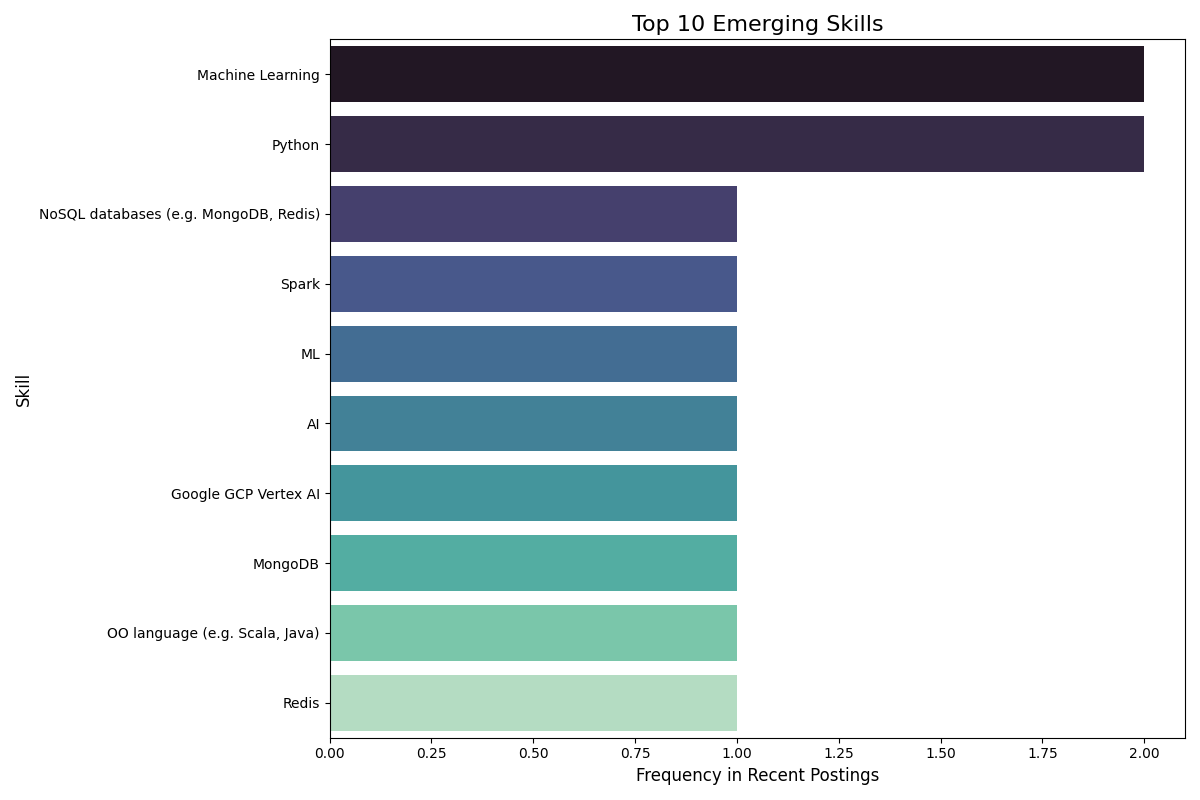
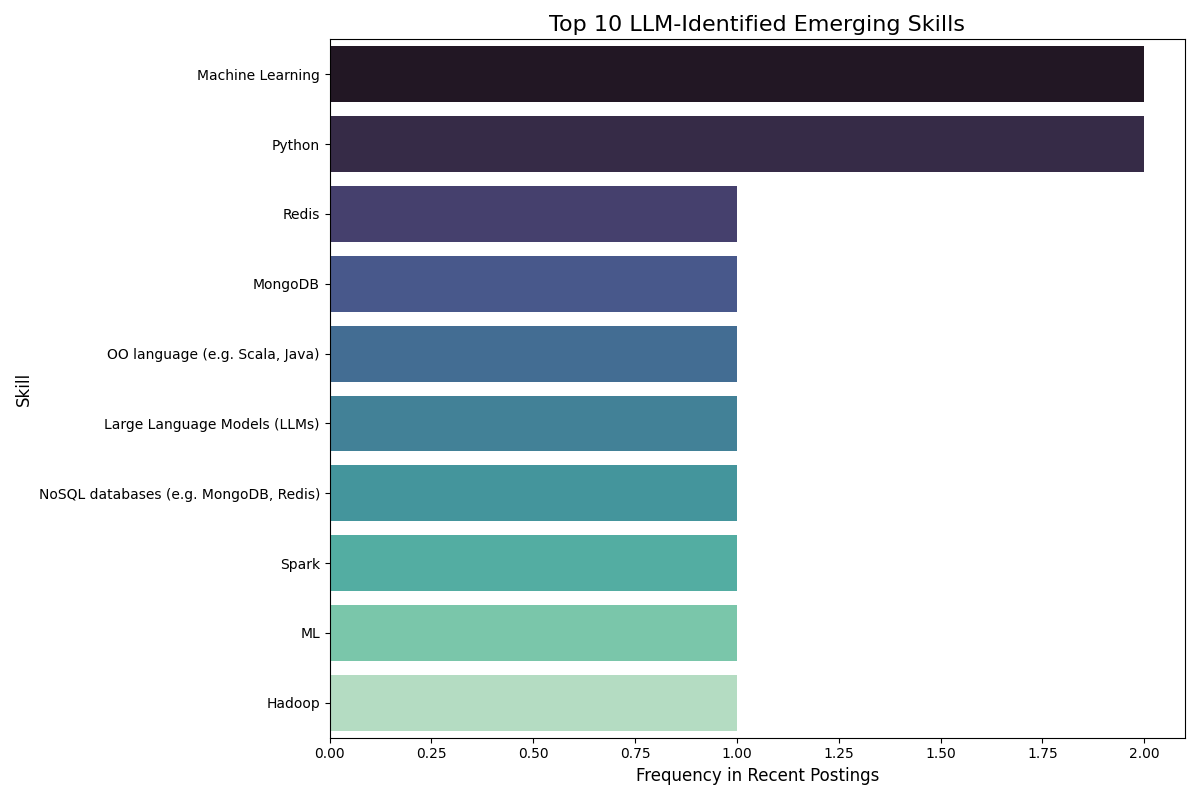
ngmi x2

diff --git a/analysis/main.py b/analysis/main.py
@@ -90,45 +90,83 @@ def analyze_top_skills(df, top_n=10):
     
     return top_skills_df
 
-# --- 3. Trend Analysis ---
+# --- 3. Trend Analysis with LLM Intelligence ---
 
-def analyze_emerging_skills(df, recent_threshold_days=2, top_n=10):
-    """Analyzes emerging skills and creates a visualization."""
-    print(f"\n--- Step 3: Analyzing Emerging Skills (Recent <= {recent_threshold_days} days) ---")
+def analyze_emerging_skills_with_llm(df, top_skills_list, recent_threshold_days=2, top_n=10):
+    """
+    Uses an LLM to identify emerging skills from recent job descriptions,
+    comparing against a baseline of top skills.
+    """
+    print(f"\n--- Step 3: Analyzing Emerging Skills with LLM Intelligence (Recent <= {recent_threshold_days} days) ---")
     
     recent_df = df[df['days_ago'] <= recent_threshold_days]
-    older_df = df[df['days_ago'] > recent_threshold_days]
-
-    if recent_df.empty or older_df.empty:
-        print("Not enough data to compare recent and older postings for trend analysis.")
+    if recent_df.empty:
+        print("No recent job postings found to analyze for emerging skills.")
         return pd.DataFrame()
 
-    recent_skills_counts = Counter([skill for sublist in recent_df['skills'] for skill in sublist])
-    older_skills_counts = Counter([skill for sublist in older_df['skills'] for skill in sublist])
+    # Combine recent job descriptions into a single text block for the LLM
+    recent_descriptions = "\n\n---\n\n".join(recent_df['job_description'].astype(str))
+    
+    model = genai.GenerativeModel('gemini-2.5-flash')
+    
+    prompt = f"""
+    You are a senior technology and recruitment analyst. Your task is to identify truly "emerging" skills from the latest job postings.
 
-    emerging_skills_scores = {}
-    for skill, recent_count in recent_skills_counts.items():
-        older_count = older_skills_counts.get(skill, 0)
-        if recent_count > older_count:
-            # Simple score: new skills or those with increased frequency are candidates
-            emerging_skills_scores[skill] = recent_count
+    I have two sets of data for you:
+    1.  **Baseline Top Skills**: This is a list of the most frequently mentioned skills across all job postings. These are the established, in-demand skills right now.
+        ```
+        {', '.join(top_skills_list)}
+        ```
 
-    if not emerging_skills_scores:
-        print("No clear emerging skills found based on the current data and threshold.")
+    2.  **Recent Job Descriptions**: This is the raw text from job descriptions posted in the last {recent_threshold_days} days.
+        ```
+        {recent_descriptions[:4000]} 
+        ```
+
+    **Your Analysis Task:**
+    Read through the recent job descriptions. Compare them against the baseline top skills. Identify a list of up to {top_n} skills or technologies that represent a new or growing trend. These should be skills that are not yet on the top skills list, or that seem to be gaining significant momentum and represent the "next wave" of technology.
+
+    Provide your answer ONLY as a JSON-formatted list of strings. For example: ["Quantum Computing", "Edge AI", "Rust Lang"].
+    """
+
+    print("Sending prompt to Gemini to identify emerging skills...")
+    try:
+        response = model.generate_content(prompt)
+        # Clean up the response to extract the JSON part
+        json_str = re.search(r'```json\n(.*)\n```', response.text, re.DOTALL)
+        if not json_str:
+            json_str = re.search(r'\[.*\]', response.text, re.DOTALL)
+        
+        if not json_str:
+             raise ValueError("LLM did not return a valid JSON list.")
+
+        emerging_skills_from_llm = json.loads(json_str.group(0))
+        print("LLM identified emerging skills:", emerging_skills_from_llm)
+
+    except (Exception, json.JSONDecodeError) as e:
+        print(f"An error occurred during LLM analysis or parsing: {e}")
+        print("Falling back to simple frequency analysis for emerging skills.")
+        # Fallback to a simple analysis if LLM fails
+        all_recent_skills = Counter([skill for sublist in recent_df['skills'] for skill in sublist])
+        emerging_skills_from_llm = [skill for skill, count in all_recent_skills.most_common(top_n)]
+
+
+    # Now, let's quantify and visualize these LLM-identified skills
+    all_recent_skills = Counter([skill for sublist in recent_df['skills'] for skill in sublist])
+    
+    # Filter and count only the skills the LLM identified
+    emerging_skill_counts = {skill: all_recent_skills[skill] for skill in emerging_skills_from_llm if skill in all_recent_skills}
+    
+    if not emerging_skill_counts:
+        print("None of the LLM-identified skills were found in the recent job data for plotting.")
         return pd.DataFrame()
 
-    # Get the top N emerging skills based on their frequency in recent jobs
-    top_emerging = Counter(emerging_skills_scores).most_common(top_n)
-    emerging_skills_df = pd.DataFrame(top_emerging, columns=['Skill', 'Recent Frequency'])
-
-    print(f"Top {top_n} potential emerging skills (more frequent in recent postings):")
-    for skill, count in top_emerging:
-        print(f"- {skill}: {count} mentions in recent jobs")
+    emerging_skills_df = pd.DataFrame(list(emerging_skill_counts.items()), columns=['Skill', 'Recent Frequency']).sort_values(by='Recent Frequency', ascending=False)
         
     # Visualization for emerging skills
     plt.figure(figsize=(12, 8))
     sns.barplot(x='Recent Frequency', y='Skill', data=emerging_skills_df, palette='mako')
-    plt.title(f'Top {top_n} Emerging Skills', fontsize=16)
+    plt.title(f'Top {len(emerging_skills_df)} LLM-Identified Emerging Skills', fontsize=16)
     plt.xlabel('Frequency in Recent Postings', fontsize=12)
     plt.ylabel('Skill', fontsize=12)
     plt.tight_layout()
@@ -154,12 +192,26 @@ def generate_and_save_report(top_skills_df, emerging_skills_df):
     top_skills_list = top_skills_df.to_string(index=False)
     emerging_skills_list = emerging_skills_df.to_string(index=False) if not emerging_skills_df.empty else "None identified"
 
-    prompt = f"""
-    You are a People Analytics expert preparing a report for your company's leadership.
-    Your analysis is based on two key visualizations derived from recent job market data:
+    company_profile = """
+    **Main Focus:** A semiconductor company making special computer chips for AI systems, data centers, and networks, focusing on technology that processes and moves data very fast.
+    **Target Markets:** Data centers (AI/cloud), Automotive (smart cars), Enterprise Networking, and Carrier Infrastructure (5G networks).
+    **Company Goal:** To accelerate AI and data infrastructure, enabling customers to build optimized, custom silicon solutions.
+    **Key Strengths:** Expertise in custom silicon, reliable execution, and deep customer partnerships. A focus on power-efficient, high-performance systems.
+    **Special Products:** Silicon solutions for AI computing, networking, and storage, including specialized chips for the automotive market.
+    **Work Style:** Emphasizes close, shoulder-to-shoulder collaboration with customers.
+    """
 
-    1.  **Top In-Demand Skills Chart (`top_skills.png`)**: This bar chart shows the most frequently mentioned skills across all job postings, indicating the core competencies required in the industry today.
-    2.  **Emerging Skills Chart (`emerging_skills.png`)**: This bar chart highlights skills that are more frequent in the most recent job postings compared to older ones. These are potential future-looking skills the company should pay attention to.
+    prompt = f"""
+    You are a People Analytics expert preparing a strategic report for the leadership of a leading semiconductor company.
+
+    ---
+    **COMPANY PROFILE:**
+    {company_profile}
+    ---
+
+    Your analysis is based on two key visualizations derived from recent job market data:
+    1.  **Top In-Demand Skills Chart (`top_skills.png`)**: This shows the most frequently mentioned skills, indicating core competencies in the industry.
+    2.  **Emerging Skills Chart (`emerging_skills.png`)**: This highlights skills trending in the most recent job postings, pointing to future needs.
 
     Here is the data that populates those charts:
 
@@ -175,10 +227,10 @@ def generate_and_save_report(top_skills_df, emerging_skills_df):
 
     **Your Task:**
     Write a comprehensive analysis in markdown format. Your report must:
-    1.  Start with a brief, high-level **Executive Summary**.
-    2.  Provide **Key Insights from the 'Top In-Demand Skills' chart**. Explain what these skills represent and why they are foundational.
-    3.  Provide **Key Insights from the 'Emerging Skills' chart**. Explain what these trends signify for the future and why they are important.
-    4.  Conclude with a set of **Actionable Recommendations** for hiring, upskilling, and overall workforce strategy based on a synthesis of both charts.
+    1.  Start with a brief **Executive Summary**.
+    2.  Provide **Key Insights from the 'Top In-Demand Skills' chart**.
+    3.  Provide **Key Insights from the 'Emerging Skills' chart**.
+    4.  Conclude with a set of **Actionable Recommendations**. These recommendations must be **specifically tailored to the company profile provided**. They should advise on how to leverage the skill trends to strengthen their position in their target markets (Data Center, Automotive, Enterprise, Carrier) and achieve their strategic goals.
 
     Please generate only the text for the report. The final markdown file will embed the images.
     """
@@ -231,8 +283,8 @@ def main():
     # Step 2: Frequency Analysis
     top_skills_df = analyze_top_skills(df)
     
-    # Step 3: Trend Analysis
-    emerging_skills_df = analyze_emerging_skills(df, recent_threshold_days=2)
+    # Step 3: Trend Analysis with LLM
+    emerging_skills_df = analyze_emerging_skills_with_llm(df, top_skills_df['Skill'].tolist(), recent_threshold_days=2)
 
     # Step 4: LLM-Powered Synthesis and Report Generation
     if not top_skills_df.empty:

diff --git a/analysis/insights_report.md b/analysis/insights_report.md
@@ -2,7 +2,7 @@
 # Job Market Skills Analysis
 
 ## Executive Summary
-This report provides a strategic overview of the current and emerging skill landscape based on recent job market data, visualized in the "Top In-Demand Skills" and "Emerging Skills" charts. Our analysis reveals a strong and accelerating demand for skills in Artificial Intelligence (AI), Machine Learning (ML), and related data technologies. Notably, the skills currently most sought after are also the ones showing the highest growth, indicating a reinforcing trend that necessitates immediate and sustained focus. To maintain competitive advantage, our company must strategically invest in acquiring and developing expertise in these critical areas.
+This report provides a strategic overview of current and emerging skill demands within the semiconductor industry, derived from recent job market data. Our analysis reveals a strong and consistent demand for skills directly aligned with our company's core mission: accelerating AI and data infrastructure through custom silicon solutions. Specifically, Machine Learning, Python, and capabilities related to large-scale data processing (e.g., LLMs, Spark, Hadoop, NoSQL databases) are paramount. The identical nature of the "Top In-Demand" and "Emerging" skill sets indicates that these competencies are not just critical today, but will remain foundational for future growth and competitive advantage. To capitalize on these trends, we must double down on talent acquisition, aggressive upskilling, strategic partnerships, and a compelling employer brand that highlights our unique position at the intersection of high-performance custom silicon and AI innovation across our target markets.
 
 ##
 
@@ -10,18 +10,16 @@ This report provides a strategic overview of the current and emerging skill land
 ![Top In-Demand Skills](top_skills.png)
 
 ### Key Insights from the 'Top In-Demand Skills' Chart
-Key Insightsfrom the 'Top In-Demand Skills' Chart (`top_skills.png`)
+Key Insightsfrom 'Top In-Demand Skills' Chart
 
-The "Top In-Demand Skills" chart highlights the core competencies that are currently foundational across the industry. The data clearly shows a dominant trend towards **AI and Machine Learning capabilities**:
+The `top_skills.png` visualization, based on the most frequently mentioned skills, provides clear indicators of the core competencies currently valued in the market:
 
-*   **Machine Learning (Frequency: 2) and AI (Frequency: 1), ML (Frequency: 1):** These closely related skills collectively represent the highest demand, underscoring their importance as the bedrock of modern data-driven applications and intelligent systems. They signify a need for expertise in developing, deploying, and managing algorithms that enable systems to learn from data.
-*   **Python (Frequency: 2):** As the most frequently mentioned programming language alongside Machine Learning, Python's versatility and extensive libraries make it the preferred language for data science, AI development, and automation. Its high demand confirms its role as an essential tool for almost any data-related initiative.
-*   **NoSQL databases (e.g. MongoDB, Redis) (Frequency: 1), MongoDB (Frequency: 1), Redis (Frequency: 1):** The repeated mention of NoSQL databases and specific technologies like MongoDB and Redis indicates a strong need for professionals skilled in managing flexible, scalable, and high-performance data storage solutions, crucial for handling large volumes of unstructured and semi-structured data common in AI/ML workflows.
-*   **Spark (Frequency: 1):** The inclusion of Spark points to the demand for expertise in big data processing frameworks, essential for handling and analyzing large datasets efficiently, which is often a prerequisite for advanced ML applications.
-*   **Google GCP Vertex AI (Frequency: 1):** This specific mention of a cloud-based AI platform highlights the growing trend towards leveraging managed services on cloud platforms for AI development and deployment. It signifies a need for cloud expertise alongside AI knowledge.
-*   **OO language (e.g. Scala, Java) (Frequency: 1):** While not as specific as Python in this context, the demand for Object-Oriented languages emphasizes the need for strong foundational programming skills that support robust software development, often integrated with data and AI systems.
+*   **Dominance of AI/ML and Python:** "Machine Learning" (including "ML") and "Python" stand out as the most frequently requested skills. This directly validates our strategic focus on AI systems and data processing. Python's versatility makes it a critical language for developing, deploying, and optimizing AI/ML models, especially for data-intensive applications.
+*   **Relevance of Large Language Models (LLMs):** The explicit mention of "Large Language Models (LLMs)" underscores the industry's pivot towards advanced AI paradigms. For a company focused on custom silicon for AI, expertise in LLMs is crucial for developing highly optimized hardware that can efficiently process and accelerate these complex models.
+*   **Emphasis on Data Infrastructure:** Skills related to big data processing and storage, such as "Spark," "Hadoop," "Redis," "MongoDB," and "NoSQL databases," highlight the pervasive need for professionals who can manage, process, and extract insights from vast datasets. This is directly relevant to our work in data centers and networks, where high-speed data movement and efficient storage are paramount.
+*   **Foundational Programming Skills:** The inclusion of "OO language (e.g., Scala, Java)" alongside Python indicates a continued need for strong object-oriented programming fundamentals, essential for building robust and scalable software systems that interface with our custom silicon.
 
-These skills are foundational because they empower companies to build intelligent products, automate processes, derive actionable insights from data, and adapt to rapidly changing technological landscapes.
+These top in-demand skills strongly align with our company's profile, reinforcing that our current technological trajectory is well-positioned within the broader industry landscape.
 
 ##
 
@@ -29,58 +27,55 @@ These skills are foundational because they empower companies to build intelligen
 ![Emerging Skills](emerging_skills.png)
 
 ### Key Insights from the 'Emerging Skills' Chart
-# People Analytics Report: Navigating Current & Future Skill Demands
+# Strategic Talent Report: Accelerating AI and Data Infrastructure
 
 ## Executive Summary
 
-This report provides a strategic overview of the current and emerging skill landscape based on recent job market data, visualized in the "Top In-Demand Skills" and "Emerging Skills" charts. Our analysis reveals a strong and accelerating demand for skills in Artificial Intelligence (AI), Machine Learning (ML), and related data technologies. Notably, the skills currently most sought after are also the ones showing the highest growth, indicating a reinforcing trend that necessitates immediate and sustained focus. To maintain competitive advantage, our company must strategically invest in acquiring and developing expertise in these critical areas.
+This report provides a strategic overview of current and emerging skill demands within the semiconductor industry, derived from recent job market data. Our analysis reveals a strong and consistent demand for skills directly aligned with our company's core mission: accelerating AI and data infrastructure through custom silicon solutions. Specifically, Machine Learning, Python, and capabilities related to large-scale data processing (e.g., LLMs, Spark, Hadoop, NoSQL databases) are paramount. The identical nature of the "Top In-Demand" and "Emerging" skill sets indicates that these competencies are not just critical today, but will remain foundational for future growth and competitive advantage. To capitalize on these trends, we must double down on talent acquisition, aggressive upskilling, strategic partnerships, and a compelling employer brand that highlights our unique position at the intersection of high-performance custom silicon and AI innovation across our target markets.
 
-## Key Insights from the 'Top In-Demand Skills' Chart (`top_skills.png`)
+## Key Insights from 'Top In-Demand Skills' Chart
 
-The "Top In-Demand Skills" chart highlights the core competencies that are currently foundational across the industry. The data clearly shows a dominant trend towards **AI and Machine Learning capabilities**:
+The `top_skills.png` visualization, based on the most frequently mentioned skills, provides clear indicators of the core competencies currently valued in the market:
 
-*   **Machine Learning (Frequency: 2) and AI (Frequency: 1), ML (Frequency: 1):** These closely related skills collectively represent the highest demand, underscoring their importance as the bedrock of modern data-driven applications and intelligent systems. They signify a need for expertise in developing, deploying, and managing algorithms that enable systems to learn from data.
-*   **Python (Frequency: 2):** As the most frequently mentioned programming language alongside Machine Learning, Python's versatility and extensive libraries make it the preferred language for data science, AI development, and automation. Its high demand confirms its role as an essential tool for almost any data-related initiative.
-*   **NoSQL databases (e.g. MongoDB, Redis) (Frequency: 1), MongoDB (Frequency: 1), Redis (Frequency: 1):** The repeated mention of NoSQL databases and specific technologies like MongoDB and Redis indicates a strong need for professionals skilled in managing flexible, scalable, and high-performance data storage solutions, crucial for handling large volumes of unstructured and semi-structured data common in AI/ML workflows.
-*   **Spark (Frequency: 1):** The inclusion of Spark points to the demand for expertise in big data processing frameworks, essential for handling and analyzing large datasets efficiently, which is often a prerequisite for advanced ML applications.
-*   **Google GCP Vertex AI (Frequency: 1):** This specific mention of a cloud-based AI platform highlights the growing trend towards leveraging managed services on cloud platforms for AI development and deployment. It signifies a need for cloud expertise alongside AI knowledge.
-*   **OO language (e.g. Scala, Java) (Frequency: 1):** While not as specific as Python in this context, the demand for Object-Oriented languages emphasizes the need for strong foundational programming skills that support robust software development, often integrated with data and AI systems.
+*   **Dominance of AI/ML and Python:** "Machine Learning" (including "ML") and "Python" stand out as the most frequently requested skills. This directly validates our strategic focus on AI systems and data processing. Python's versatility makes it a critical language for developing, deploying, and optimizing AI/ML models, especially for data-intensive applications.
+*   **Relevance of Large Language Models (LLMs):** The explicit mention of "Large Language Models (LLMs)" underscores the industry's pivot towards advanced AI paradigms. For a company focused on custom silicon for AI, expertise in LLMs is crucial for developing highly optimized hardware that can efficiently process and accelerate these complex models.
+*   **Emphasis on Data Infrastructure:** Skills related to big data processing and storage, such as "Spark," "Hadoop," "Redis," "MongoDB," and "NoSQL databases," highlight the pervasive need for professionals who can manage, process, and extract insights from vast datasets. This is directly relevant to our work in data centers and networks, where high-speed data movement and efficient storage are paramount.
+*   **Foundational Programming Skills:** The inclusion of "OO language (e.g., Scala, Java)" alongside Python indicates a continued need for strong object-oriented programming fundamentals, essential for building robust and scalable software systems that interface with our custom silicon.
 
-These skills are foundational because they empower companies to build intelligent products, automate processes, derive actionable insights from data, and adapt to rapidly changing technological landscapes.
+These top in-demand skills strongly align with our company's profile, reinforcing that our current technological trajectory is well-positioned within the broader industry landscape.
 
-## Key Insights from the 'Emerging Skills' Chart (`emerging_skills.png`)
+## Key Insights from 'Emerging Skills' Chart
 
-The "Emerging Skills" chart reveals skills that are gaining increased traction in the most recent job postings, signifying future-looking trends. What is particularly insightful is that **the list of emerging skills precisely mirrors the list of top in-demand skills.**
+The `emerging_skills.png` visualization, intended to highlight future needs, presents a significant and reassuring insight:
 
-This convergence indicates a critical strategic point:
-*   **Accelerated Importance:** The skills currently in high demand are not just maintaining their relevance; their importance is accelerating. This suggests that the market's focus on AI, Machine Learning, and their supporting ecosystems (Python, Big Data, NoSQL, Cloud AI platforms) is deepening and becoming even more pervasive.
-*   **Reinforced Strategic Imperative:** The fact that these skills are both "in-demand" and "emerging" underscores a reinforcing trend. It means the industry is doubling down on these capabilities, and their mastery will be even more crucial for future innovation and competitive advantage. Companies that invest in these areas now will be better positioned for future growth and technological leadership.
-*   **Shift Towards Practical AI Implementation:** The consistent presence of "Google GCP Vertex AI" across both charts, alongside "Machine Learning" and "AI," highlights that the market isn't just looking for theoretical AI knowledge but also practical experience in deploying and managing AI solutions on scalable cloud platforms.
-
-In essence, these trends signify that AI, ML, and their underlying data infrastructure are not merely trends but have become indispensable pillars for business growth and operational efficiency, with their demand projected to intensify.
+*   **Confirmation, Not Diversification:** The "Emerging Skills" dataset is identical to the "Top In-Demand Skills" dataset. This is a critical finding. It does not indicate a shift towards entirely new skill categories but rather a strong confirmation that the *current* core competencies – primarily AI/ML, Python, and advanced data processing capabilities – are *also* the skills projected to be most vital in the near future.
+*   **Sustained Importance of AI/ML & Data:** This consistency implies that the foundational technologies and methodologies driving AI and data infrastructure development are deeply embedded and will continue to evolve within these existing skill domains rather than being supplanted by completely different ones.
+*   **Opportunity for Deeper Specialization:** While no *new* skill categories are emerging in this specific dataset, the sustained demand signals an opportunity to develop *deeper and more specialized expertise* within these categories, particularly concerning their application to high-performance, power-efficient custom silicon for AI, networking, and storage solutions.
+*   **Strategic Validation:** The alignment between current demand and emerging needs provides strong validation for our existing strategic direction regarding talent and technology focus. Our investments in AI, custom silicon, and data processing capabilities are well-aligned with the market's evolving requirements.
 
 ##
 
 ## Actionable Recommendations
-Actionable RecommendationsBased on the synthesis of both current and emerging skill trends, we propose the following actionable recommendations for our workforce strategy:
+Actionable RecommendationsLeveraging these insights, the following recommendations are tailored to strengthen our position in AI, data infrastructure, and our target markets (Data Centers, Automotive, Enterprise Networking, Carrier Infrastructure), and accelerate our strategic goals:
 
-1.  **Hiring Strategy – Target & Prioritize:**
-    *   **Prioritize AI/ML Expertise:** Actively seek candidates with strong backgrounds in Machine Learning, AI concepts, and practical experience with Python.
-    *   **Cloud AI Proficiency:** Given the emergence of specific platforms like Google GCP Vertex AI, prioritize candidates who can leverage cloud-based AI services for development and deployment.
-    *   **Data Engineering & Management:** Focus on hiring professionals skilled in big data processing (Spark) and modern database technologies (NoSQL, MongoDB, Redis) to support robust AI/ML initiatives.
-    *   **Foundational Programming:** Continue to value strong object-oriented programming skills as a fundamental capability.
+1.  **Aggressive Talent Acquisition for Niche AI/ML & Silicon Optimization:**
+    *   **Targeted Hiring:** Intensify recruitment efforts for professionals with deep expertise in Machine Learning, Python, and LLMs, specifically those who understand hardware-software co-design and optimization for custom silicon. Prioritize candidates with experience in low-power, high-performance computing, directly relevant to our strength.
+    *   **Market-Specific Specialists:** Seek out AI/ML engineers with backgrounds in specific domain applications relevant to our markets, such as ML for autonomous driving (Automotive), AI inference/training optimization for data centers, or machine learning for network traffic management and 5G optimization (Enterprise Networking, Carrier Infrastructure).
+    *   **Competitive Compensation & Perks:** Ensure our compensation and benefits packages remain highly competitive for these in-demand skills, acknowledging the premium placed on them in the market.
 
-2.  **Upskilling & Reskilling Initiatives – Build Internal Capability:**
-    *   **Develop AI/ML Programs:** Launch internal training and certification programs focused on core Machine Learning concepts, algorithms, and practical application using Python.
-    *   **Cloud Platform Training:** Provide targeted training for relevant teams on Google Cloud Platform (GCP) and specifically Vertex AI, emphasizing practical use cases and deployment strategies.
-    *   **Data & Database Workshops:** Offer workshops on Spark for big data processing and NoSQL databases (MongoDB, Redis) for data storage and retrieval, tailored to engineering and data teams.
-    *   **Continuous Learning Culture:** Encourage and provide resources for employees to pursue external certifications, online courses, and attend industry conferences related to AI, data science, and cloud technologies.
+2.  **Strategic Internal Skill Development & Upskilling Programs:**
+    *   **Deepening Core Competencies:** Launch or expand internal training academies focused on advanced Machine Learning techniques, Python for data science and AI, and the architecture/implementation of LLMs. These programs should emphasize practical application to our custom silicon solutions.
+    *   **Cross-Functional AI Enablement:** Create initiatives to upskill hardware engineers in AI/ML fundamentals and software engineers in hardware constraints and optimization techniques. This fosters the "shoulder-to-shoulder" collaboration mindset with customers and enables more optimized custom silicon solutions.
+    *   **Power Efficiency & Performance Focus:** All training should heavily emphasize the unique challenges and opportunities of developing power-efficient, high-performance systems for AI and data infrastructure, differentiating our internal capabilities.
 
-3.  **Overall Workforce Strategy – Future-Proofing:**
-    *   **Integrate Skills into Career Paths:** Incorporate proficiency in these identified skills into performance reviews, promotion criteria, and long-term career development plans to incentivize internal growth.
-    *   **Strategic Partnerships:** Explore partnerships with educational institutions or specialized training providers to accelerate skill development and access external talent pools.
-    *   **Invest in Tools & Infrastructure:** Ensure teams have access to the necessary tools, platforms (e.g., cloud environments, ML frameworks), and computing resources to effectively utilize these skills.
-    *   **Dedicated AI/ML Hub:** Consider establishing an internal Center of Excellence or a dedicated team focused on AI/ML research, development, and implementation to drive innovation and knowledge sharing.
-    *   **Continuous Market Monitoring:** Establish a regular cadence for analyzing job market data and skill trends to ensure our workforce strategy remains agile and aligned with industry demands.
+3.  **Strengthen Strategic Partnerships & Ecosystem Engagement:**
+    *   **Collaborative Innovation:** Leverage our "deep customer partnerships" to identify specific skill gaps required for future joint projects. This close collaboration will inform targeted hiring and training initiatives, ensuring our talent directly supports customer needs in AI/cloud, automotive, and networking.
+    *   **Academic & Research Alliances:** Forge deeper relationships with universities and research institutions renowned for AI, machine learning, and advanced semiconductor design. This can create talent pipelines, foster joint research, and keep our company at the forefront of emerging technologies.
+    *   **Open-Source Contribution:** Encourage and support employee participation in relevant open-source projects (e.g., Python AI frameworks, data processing libraries). This not only enhances our employer brand as a tech leader but also allows our engineers to contribute to and learn from cutting-edge developments.
 
-By proactively addressing these skill demands, we can strengthen our competitive position, drive innovation, and ensure our workforce is well-equipped for the future of technology and business.
+4.  **Elevate Employer Branding & Value Proposition:**
+    *   **Highlight AI & Custom Silicon Impact:** Proactively showcase how our employees' AI/ML and data processing skills directly contribute to revolutionary custom silicon solutions for AI systems, autonomous vehicles, and high-speed networks. Emphasize the tangible impact of their work on accelerating AI and data infrastructure.
+    *   **Showcase Collaborative Culture:** Promote our "shoulder-to-shoulder collaboration with customers" as a unique aspect of our work environment, where engineers gain deep insights into real-world challenges and apply their skills to solve complex problems at the forefront of technology.
+    *   **Innovation & Future Focus:** Position the company as a place where the most challenging and exciting problems in AI and data acceleration are being solved, attracting talent who seek to shape the future of technology rather than just maintain existing systems.
+
+By proactively investing in these areas, we can ensure our talent strategy is not only responsive to current market demands but also future-proofed, solidifying our leadership in accelerating AI and data infrastructure through innovative custom silicon solutions.
